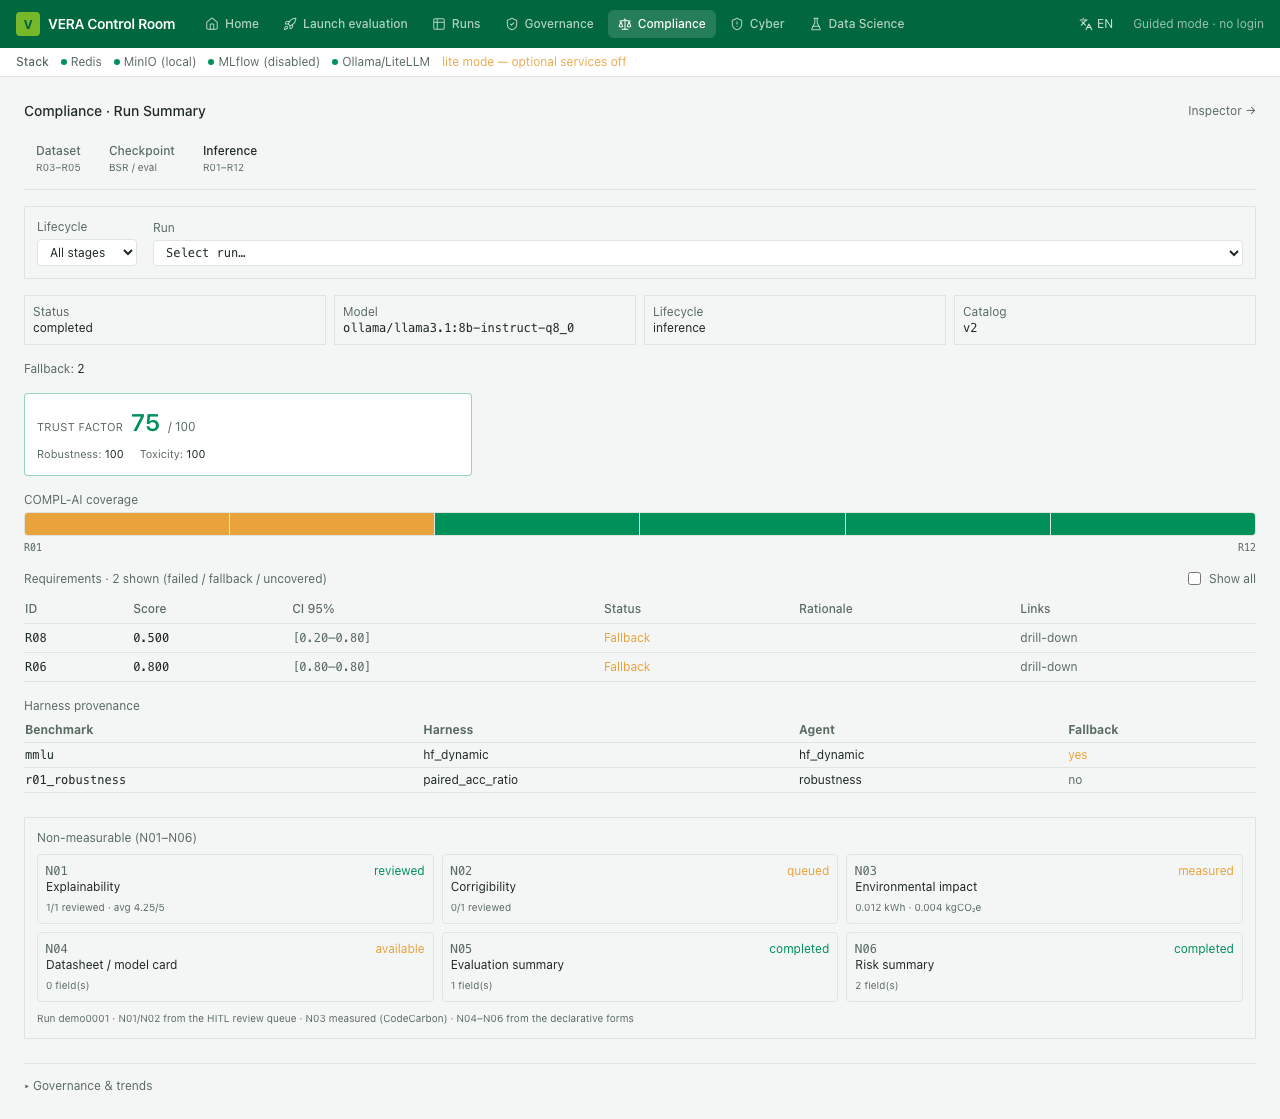
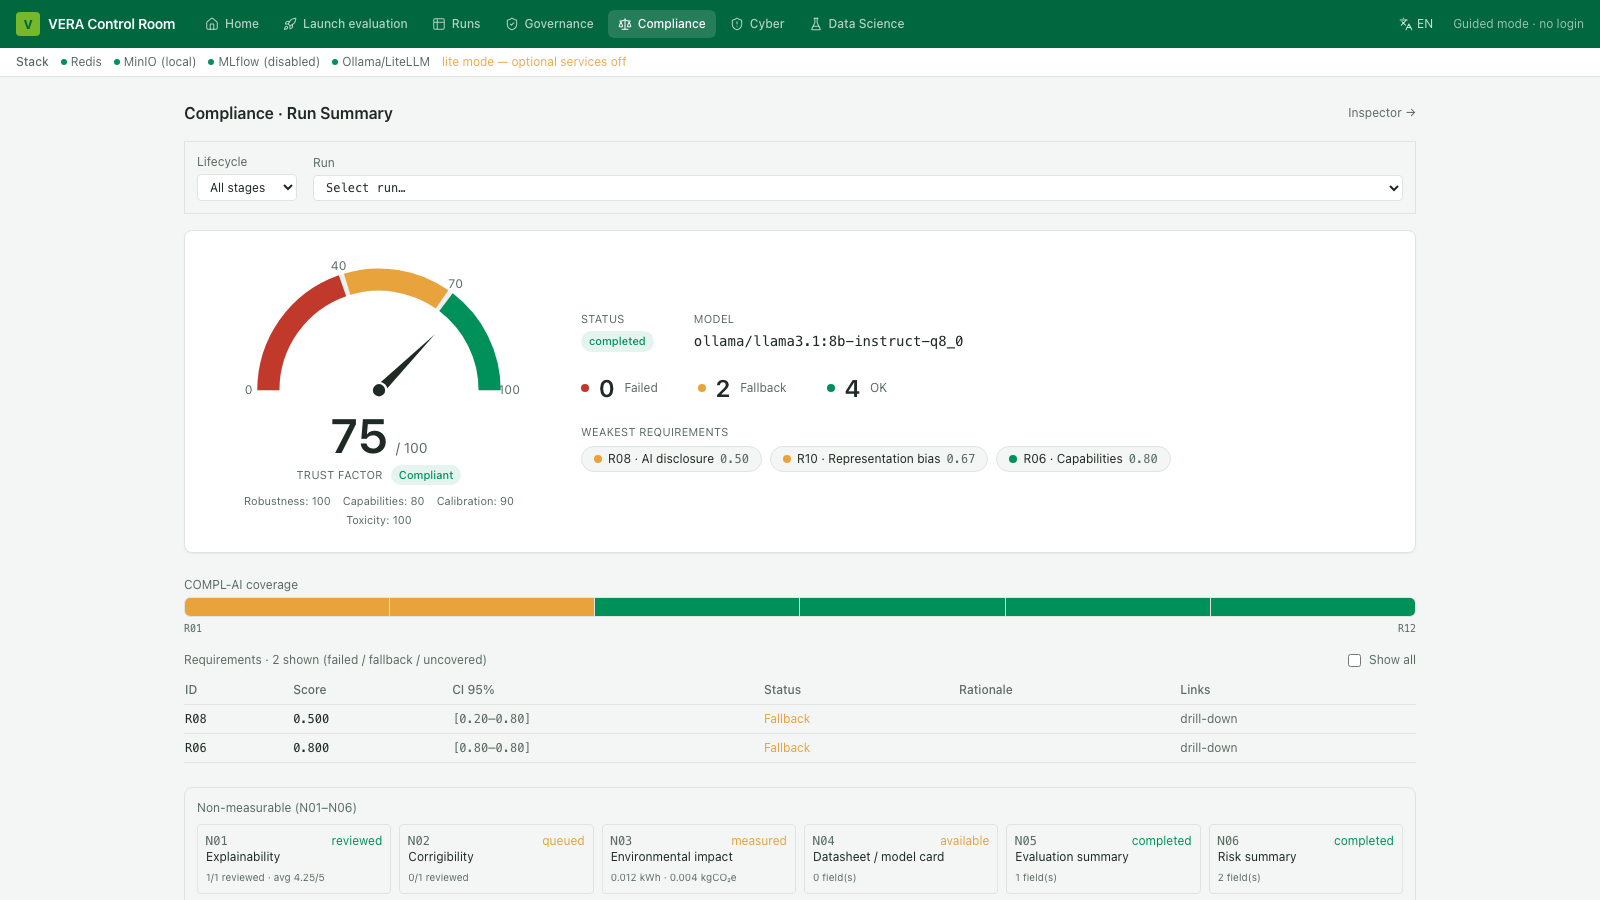
test(e2e): paper hero capture at 1600x900 + full appendix capture
- shot_control_room.png is now the 16:9 hero (gauge + essentials, fullPage:false)
- new shot_control_room_full.png: full page with 'Run details' expanded (appendix)
- gauge viewBox widened so the 0/100 tick labels are not clipped; R06/R07
  component labels named; mock components enriched
- 4 screenshots regenerated (hero, full, wizard, governance, home)

diff --git a/dashboard/e2e/screenshots.spec.ts b/dashboard/e2e/screenshots.spec.ts
@@ -72,7 +72,7 @@ const SUMMARY = {
     n06: { status: "completed", fields: { misuse: "reviewed", residual_risk: "low" } },
   },
   requested_requirements: ORDER,
-  trust_factor: { score: 75, band: "green", components: { R01: 100, R12: 100 } },
+  trust_factor: { score: 75, band: "green", components: { R01: 100, R06: 80, R07: 90, R12: 100 } },
 };
 
 async function mock(page: Page) {
@@ -125,12 +125,28 @@ async function mock(page: Page) {
   ] } }));
 }
 
-test("capture control room", async ({ page }) => {
-  await mock(page);
-  await page.goto(`/dashboards/compliance?run=${SUMMARY.run_id}`);
-  await page.getByTestId("run-summary-view").waitFor({ timeout: 15000 });
-  await page.waitForTimeout(800);
-  await page.screenshot({ path: "../manuscript/figures/shot_control_room.png", fullPage: true });
+test.describe("control room (paper hero)", () => {
+  test.use({ viewport: { width: 1600, height: 900 } });
+
+  test("capture control room hero", async ({ page }) => {
+    await mock(page);
+    await page.goto(`/dashboards/compliance?run=${SUMMARY.run_id}`);
+    await page.getByTestId("run-hero").waitFor({ timeout: 15000 });
+    await page.waitForTimeout(500);
+    await page.screenshot({ path: "../manuscript/figures/shot_control_room.png", fullPage: false });
+  });
+
+  test("capture control room full", async ({ page }) => {
+    await mock(page);
+    await page.goto(`/dashboards/compliance?run=${SUMMARY.run_id}`);
+    await page.getByTestId("run-summary-view").waitFor({ timeout: 15000 });
+    await page.getByTestId("run-details-toggle").click();
+    await page.waitForTimeout(500);
+    await page.screenshot({
+      path: "../manuscript/figures/shot_control_room_full.png",
+      fullPage: true,
+    });
+  });
 });
 
 test("capture launch wizard", async ({ page }) => {

diff --git a/dashboard/src/components/TrustFactorGauge.tsx b/dashboard/src/components/TrustFactorGauge.tsx
@@ -21,6 +21,8 @@ const COMPONENT_LABELS: Record<string, string> = {
   R01: "Robustness",
   R02: "Cyber",
   R05: "Privacy",
+  R06: "Capabilities",
+  R07: "Calibration",
   R12: "Toxicity",
 };
 
@@ -105,7 +107,7 @@ export function TrustFactorGauge({
       className="flex flex-col items-center"
       style={{ width }}
     >
-      <svg viewBox="0 0 220 130" width={width} height={(width * 130) / 220}>
+      <svg viewBox="-12 0 244 130" width={width} height={(width * 130) / 244}>
         {/* unfilled track under the segments */}
         <path d={arcPath(0, 100)} stroke="#eef1ef" strokeWidth={STROKE} fill="none" />
         {segments.map((s, i) => (
